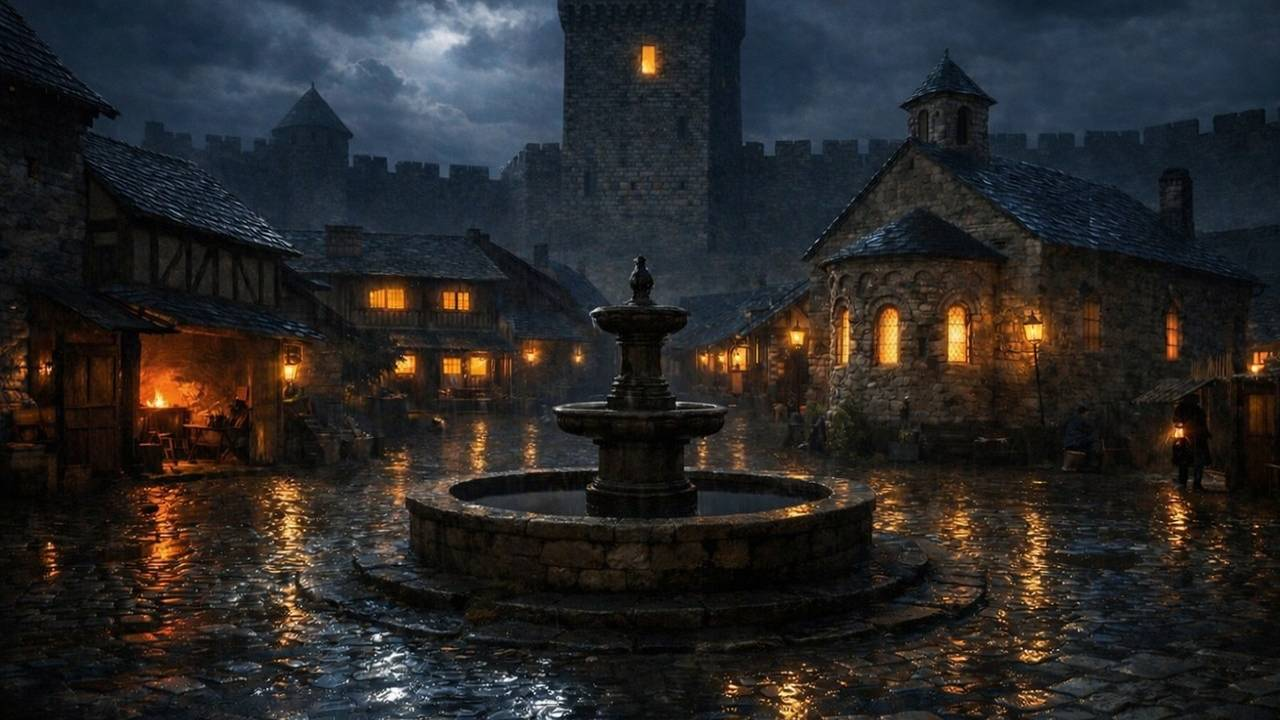
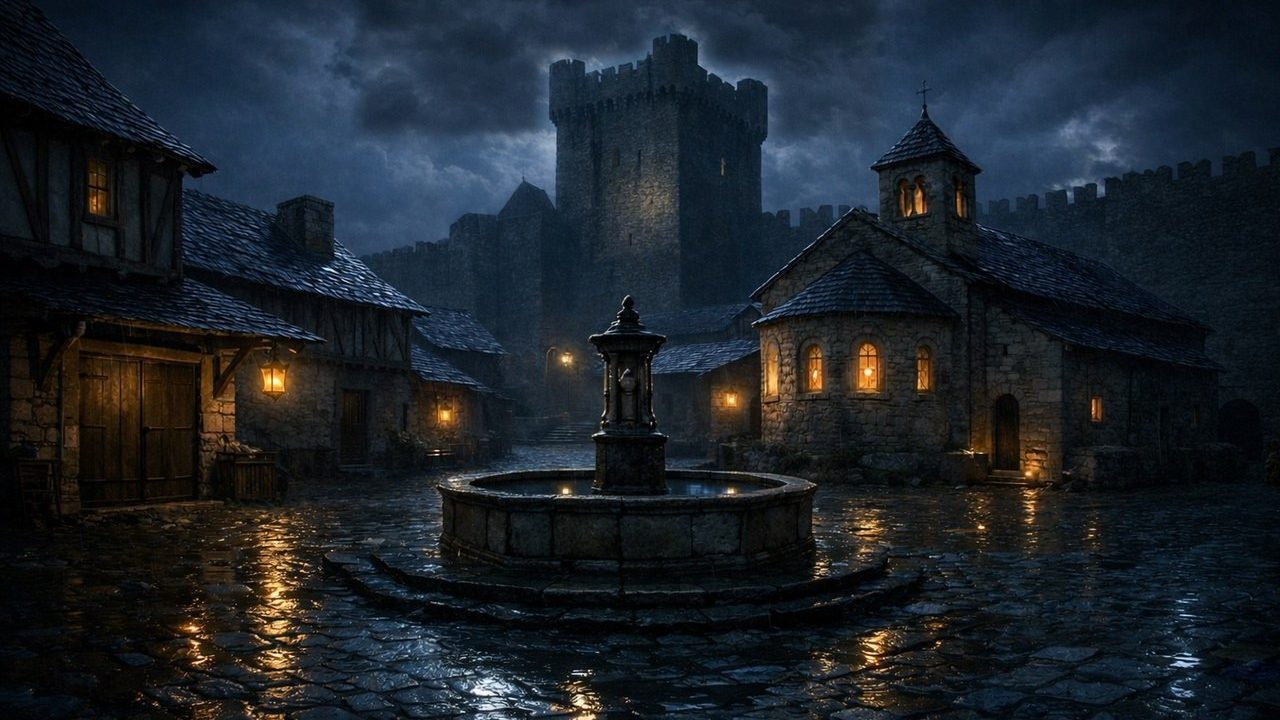
Rêverie : nouvelle couverture du Roi (Margot tient son bâton), cour sans lune sous l'orage, chouette de jour (images refaites le 14/10)

diff --git a/reverie.html b/reverie.html
@@ -204,7 +204,7 @@
           <figcaption><b>05</b> — <span class="fr">Une petite fille en sabots se met en route.</span><span class="en">A little girl in wooden clogs sets off.</span></figcaption>
         </figure>
         <figure>
-          <img src="assets/img/reverie/shots/06.jpg" alt="Une chouette dans le creux d'un vieux chêne, une chandelle à ses pieds" width="1280" height="720" loading="lazy">
+          <img src="assets/img/reverie/shots/06.jpg" alt="Une chouette grise dans le creux d'un vieux chêne, en plein jour" width="1280" height="720" loading="lazy">
           <figcaption><b>06</b> — <span class="fr">La chouette du vieux chêne.</span><span class="en">The owl in the old oak.</span></figcaption>
         </figure>
         <figure>
